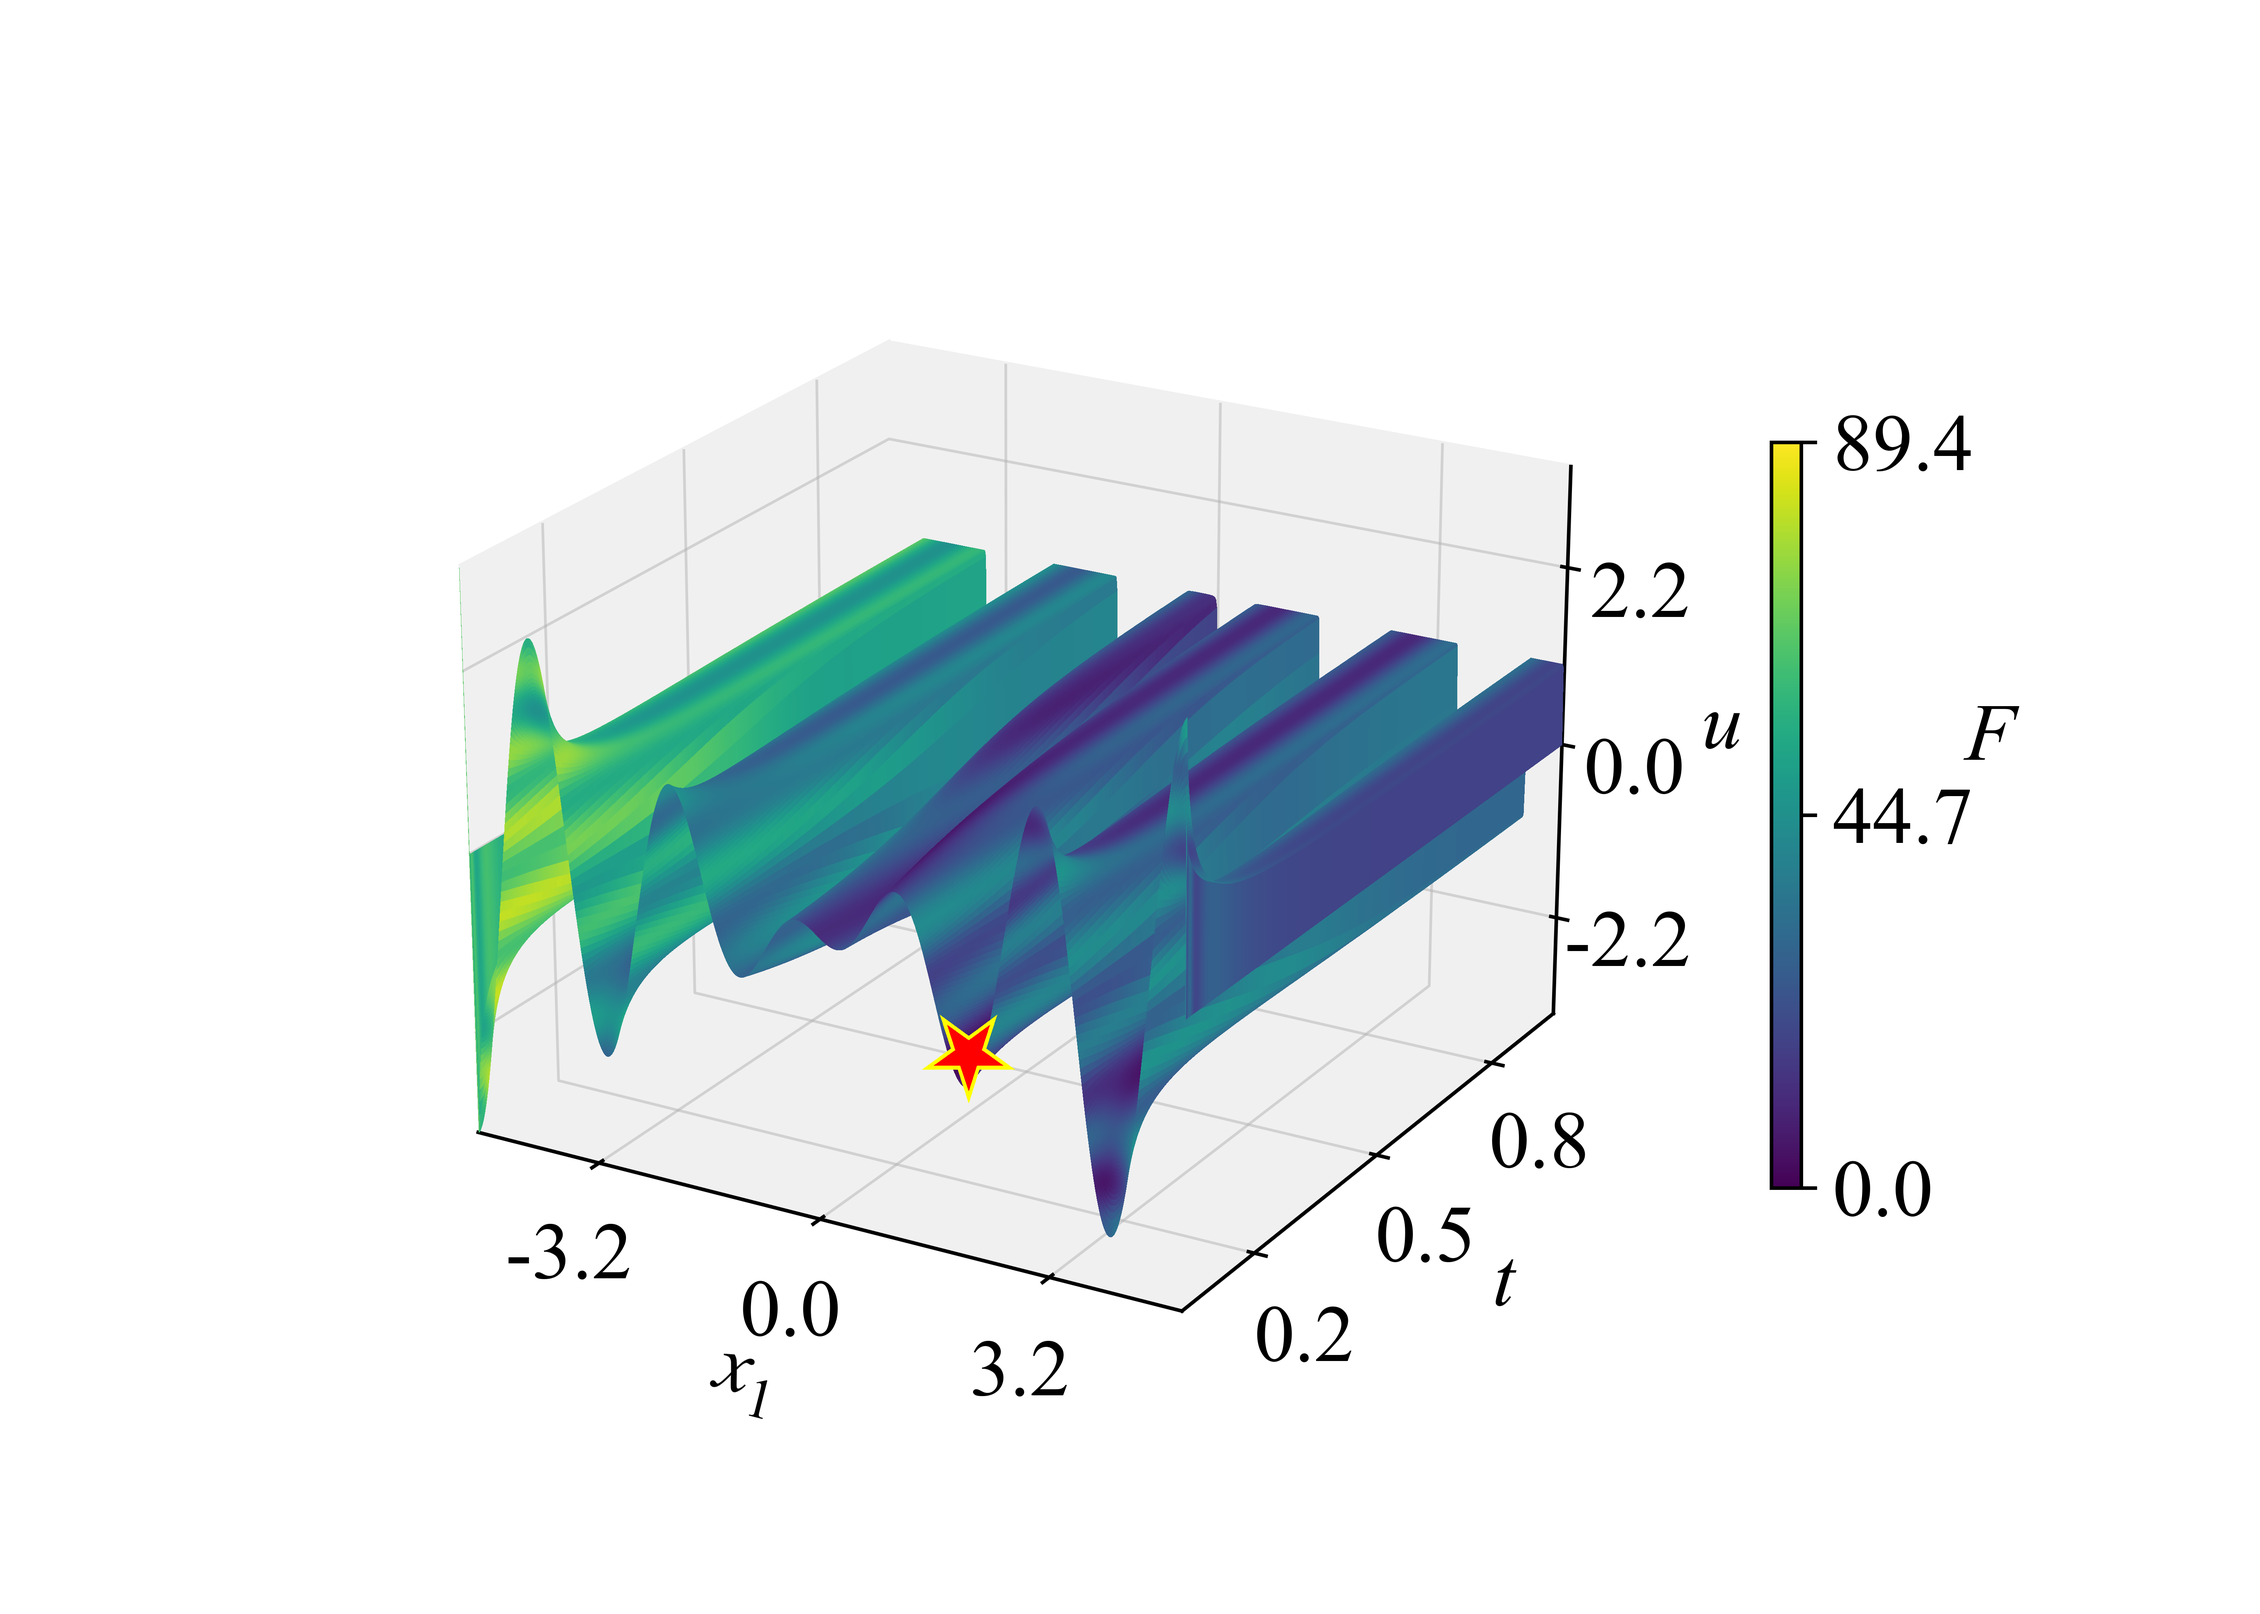
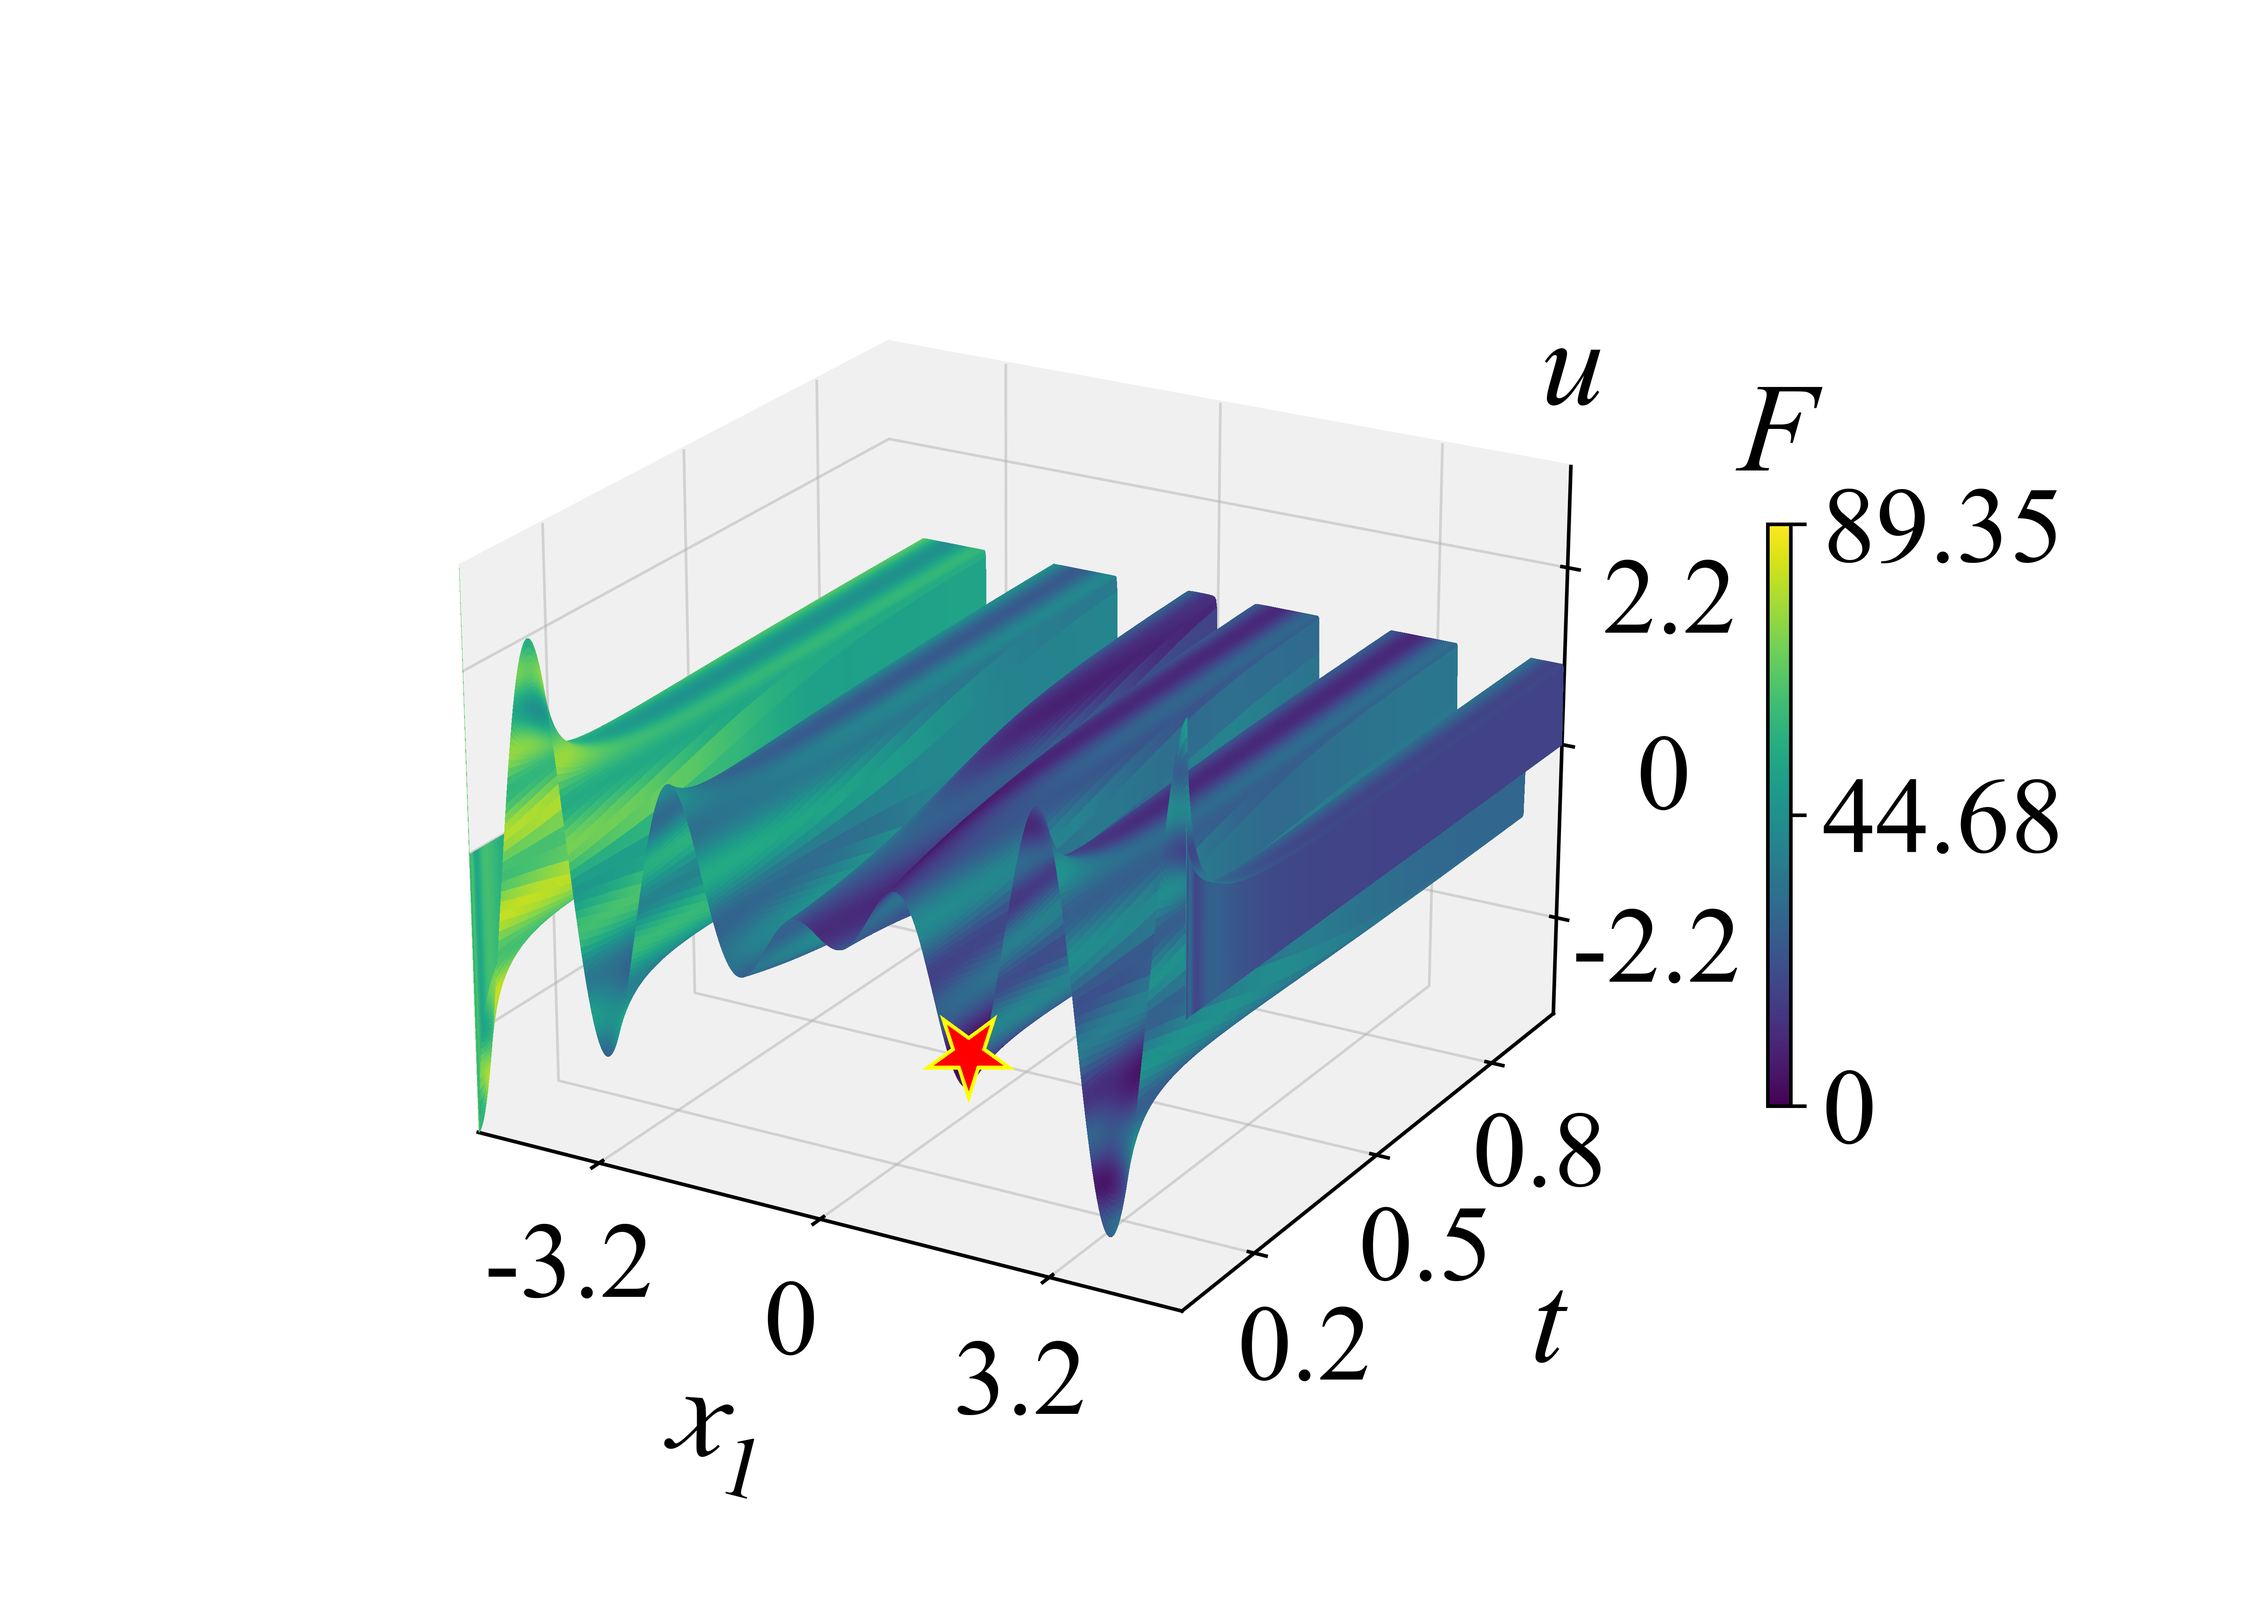
Update F1-F11 figures with consistent paired color scales

diff --git a/docs/problem_gallery.md b/docs/problem_gallery.md
@@ -4,7 +4,7 @@
 
 This gallery pairs objective landscapes with views of the corresponding PDE state surfaces. Colors show the objective value F; the height coordinate u in a state-surface panel shows the PDE state. Parameterized problems include several fixed-parameter slices.
 
-Figures use the stored reference fields. Variable labels follow the manuscript equations and figure captions. Stars mark representative points checked against the manuscript reference targets; they do not by themselves establish global optimality. Color limits may use quantiles and need not equal the reference objective value.
+Figures use the stored reference fields. Variable labels follow the manuscript equations and figure captions. Stars mark representative points checked against the manuscript reference targets; they do not by themselves establish global optimality. Within each problem, the objective and state panels use the same color limits, ticks and colormap.
 
 [F1](#f1) | [F2](#f2) | [F3](#f3) | [F4](#f4) | [F5](#f5) | [F6](#f6) | [F7](#f7) | [F8](#f8) | [F9](#f9) | [F10](#f10) | [F11](#f11)
 
